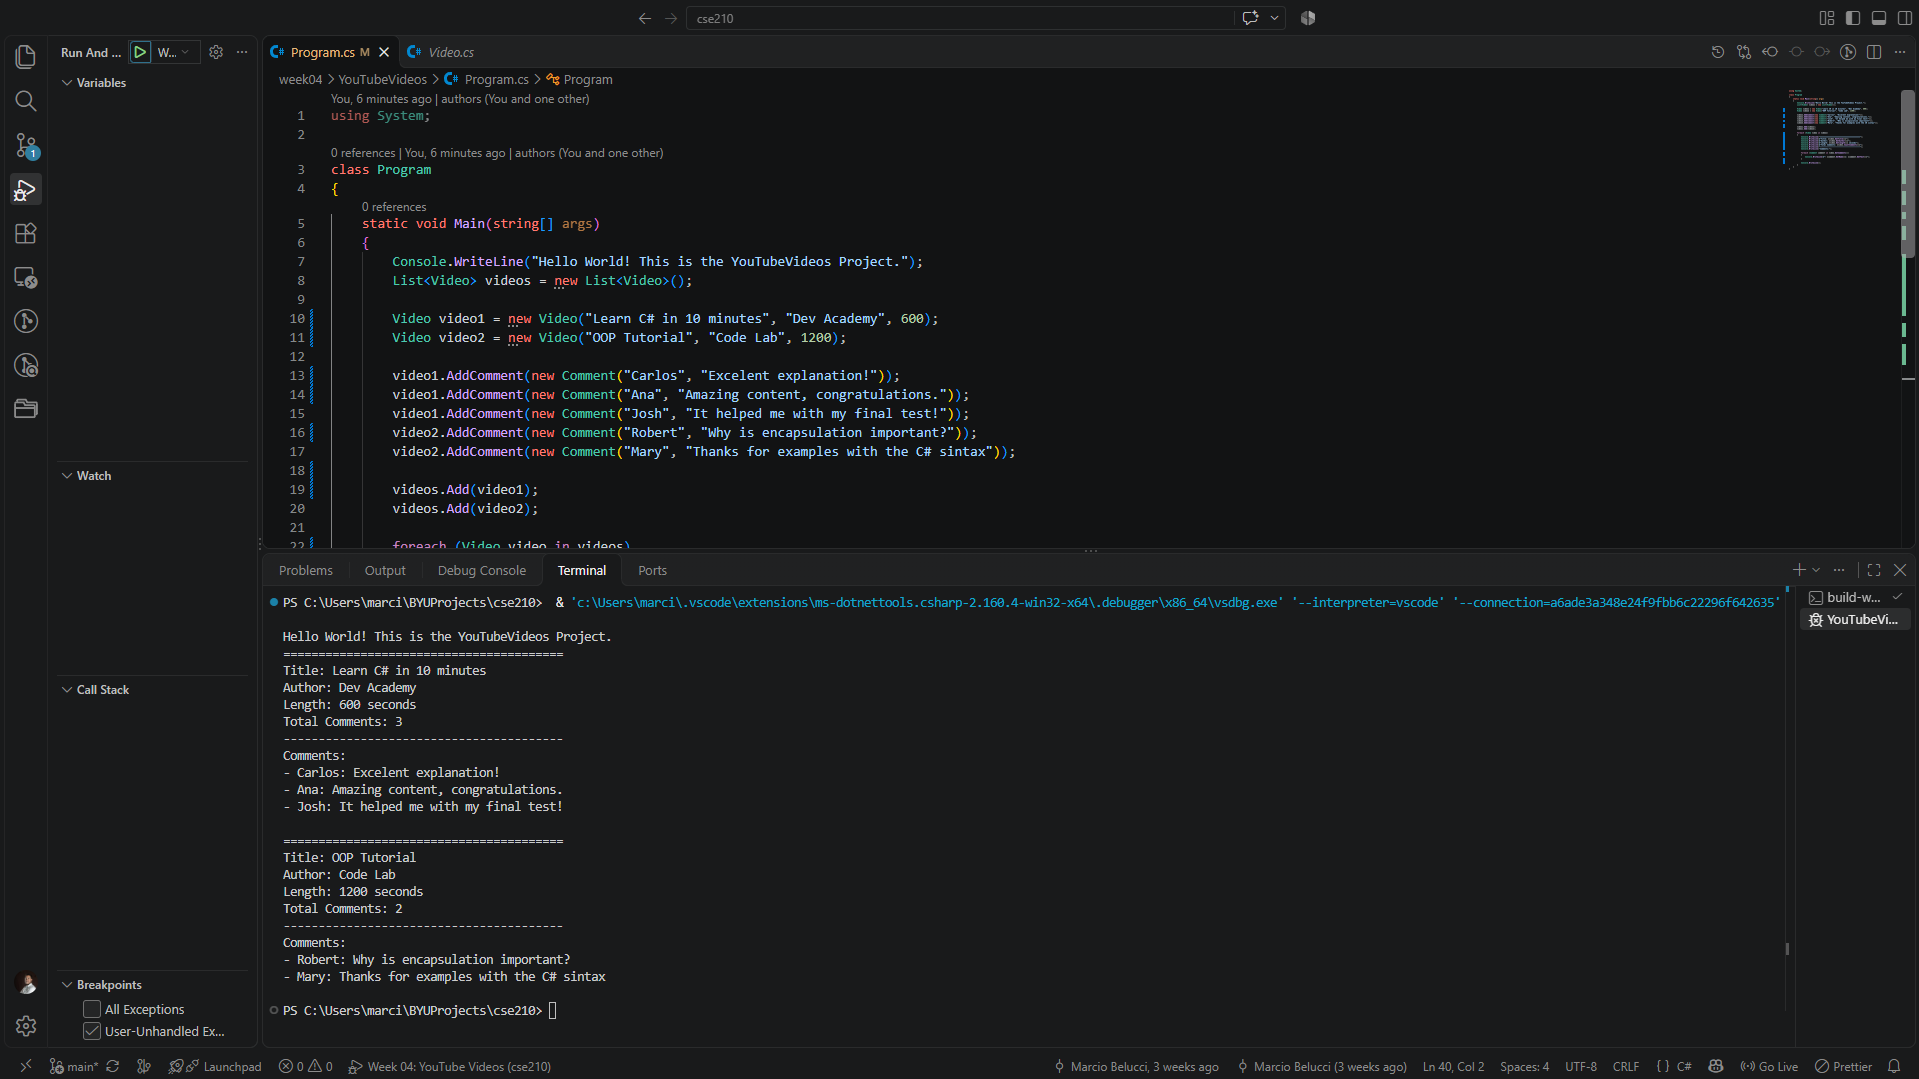
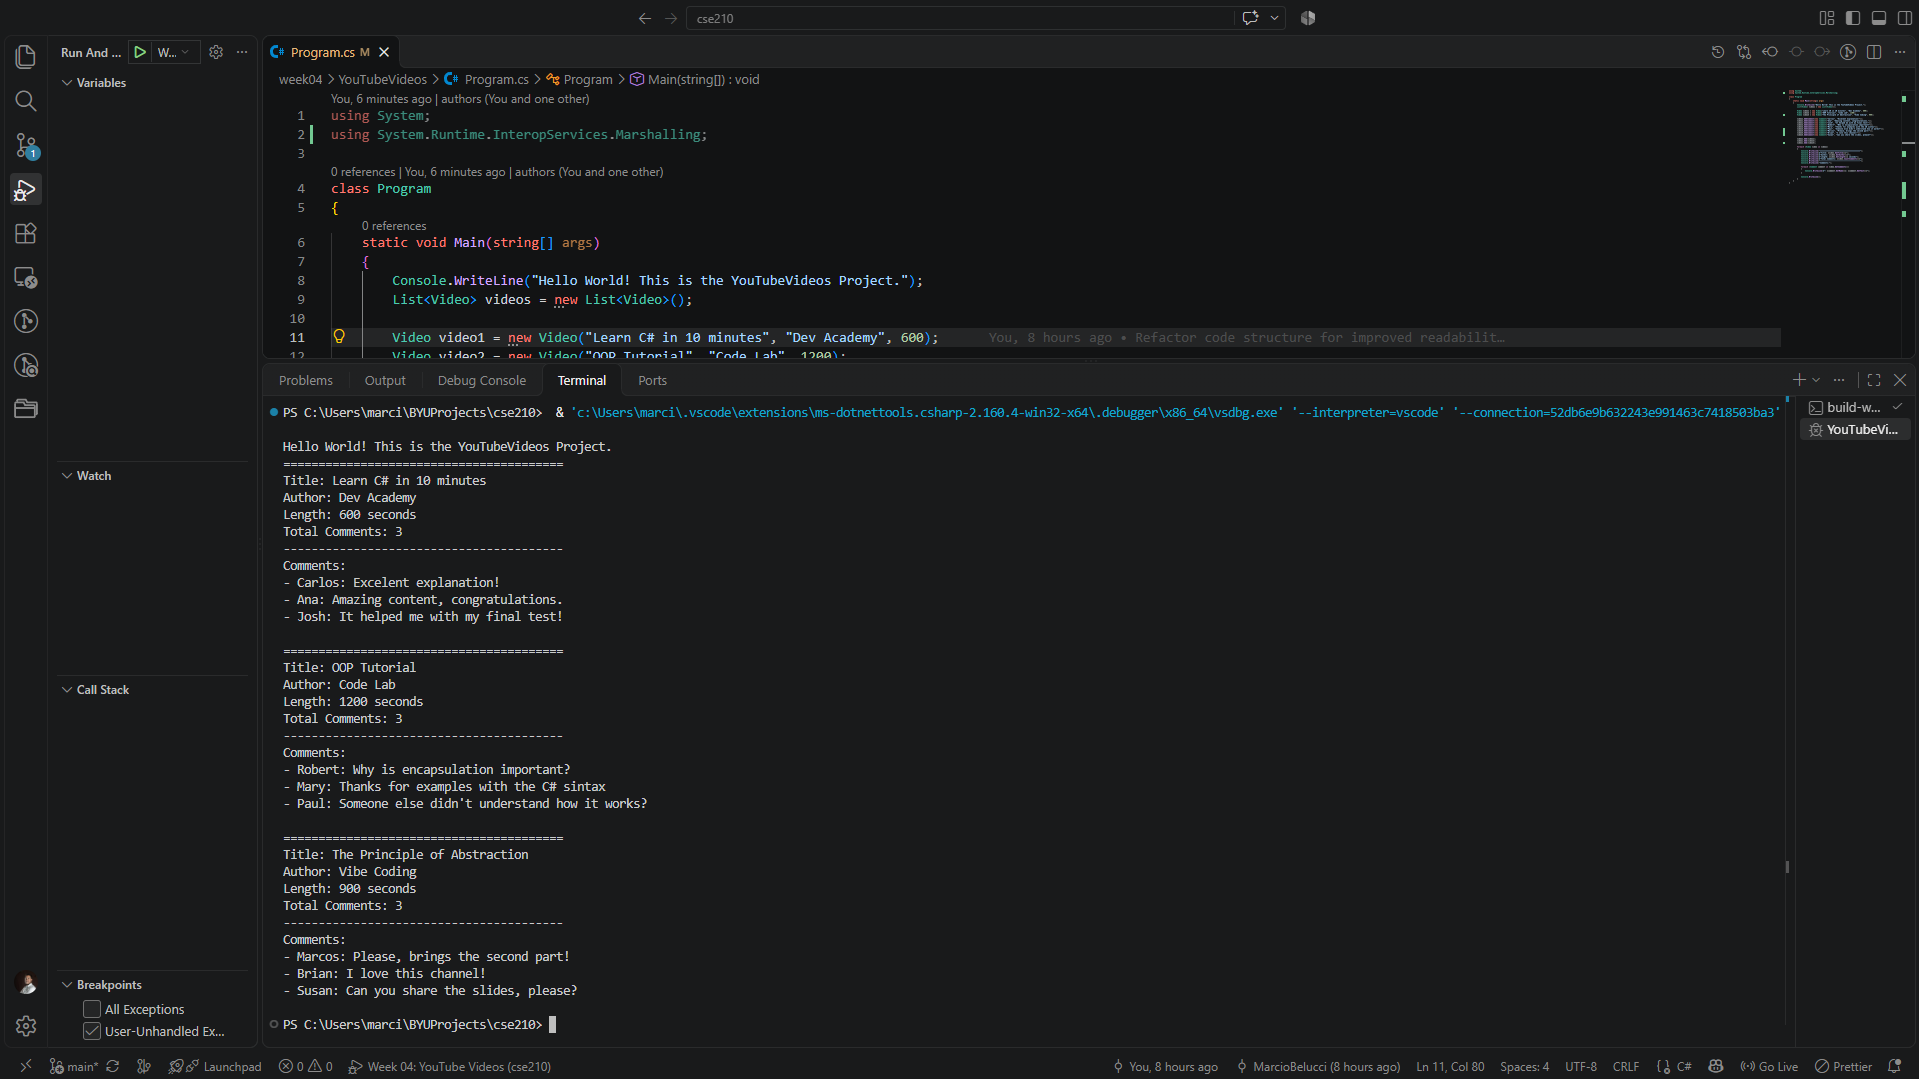
Add new video and comments to enhance video collection

diff --git a/week04/YouTubeVideos/Program.cs b/week04/YouTubeVideos/Program.cs
@@ -1,4 +1,5 @@
 using System;
+using System.Runtime.InteropServices.Marshalling;
 
 class Program
 {
@@ -9,15 +10,21 @@ class Program
 
         Video video1 = new Video("Learn C# in 10 minutes", "Dev Academy", 600);
         Video video2 = new Video("OOP Tutorial", "Code Lab", 1200);
+        Video video3 = new Video("The Principle of Abstraction", "Vibe Coding", 900);
 
         video1.AddComment(new Comment("Carlos", "Excelent explanation!"));
         video1.AddComment(new Comment("Ana", "Amazing content, congratulations."));
         video1.AddComment(new Comment("Josh", "It helped me with my final test!"));
         video2.AddComment(new Comment("Robert", "Why is encapsulation important?"));
         video2.AddComment(new Comment("Mary", "Thanks for examples with the C# sintax"));
+        video2.AddComment(new Comment("Paul", "Someone else didn't understand how it works?"));
+        video3.AddComment(new Comment("Marcos", "Please, brings the second part!"));
+        video3.AddComment(new Comment("Brian", "I love this channel!"));
+        video3.AddComment(new Comment("Susan", "Can you share the slides, please?"));
 
         videos.Add(video1);
         videos.Add(video2);
+        videos.Add(video3);
 
         foreach (Video video in videos)
         {
